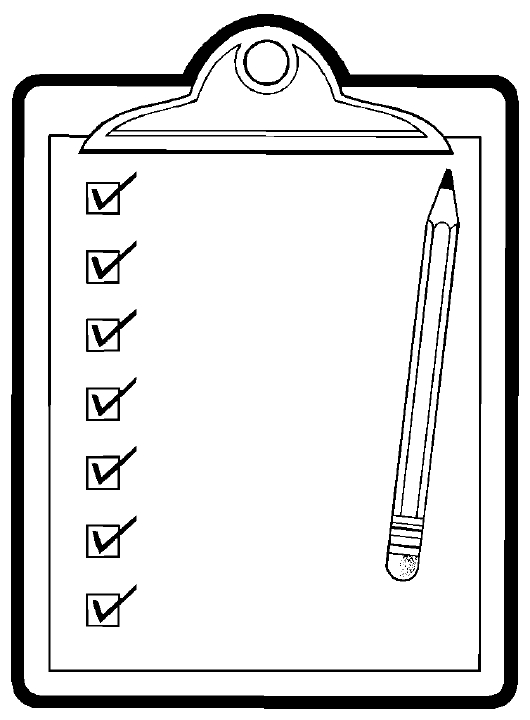
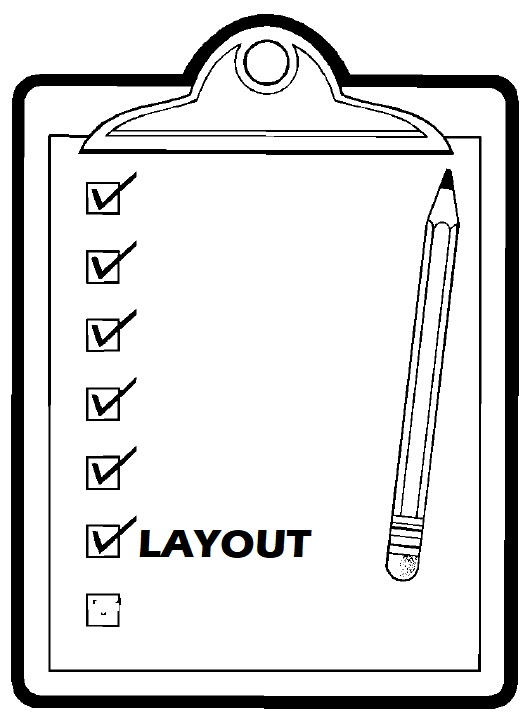
updated

Changed region(s): [[0.2415, 0.7333, 0.6038, 0.825], [0.1811, 0.825, 0.2415, 0.8861]]

diff --git a/css/style.css b/css/style.css
@@ -25,29 +25,34 @@ header{
 	width:80%;
 	height:auto;
 	display:flex;
-	justify-content:space-around;
-	align-items:center;
+	justify-content:flex-start;
+	/* align-items:center; */
+	flex-wrap:wrap;
+	gap:20px;
 }
 .card{
-	width:100%;
+	width:20%;
 	height:300px;
-	flex-flow:row wrap;
+	/* flex-wrap:wrap; */
 	
 }
 .image2 img{
 	width:200px;
-	height:300px;
+	height:250px;
 }
 .image3 img{
 	width:200px;
-	height:300px;
+	height:250px;
 }
 .image4 img{
 	width:200px;
-	height:300px;
+	height:250px;
 }
 .image5 img{
 	width:200px;
-	height:300px;
+	height:250px;
 }
-
+.image6 img{
+	width:200px;
+	height:250px;
+}

diff --git a/index.html b/index.html
@@ -48,6 +48,15 @@
 	     <img src="image/photo5.png" alt="no image"></a>
 	    </div>
 	 </div>
+	 
+	 <div class="card6 card">
+	   <div class="image6">
+	     <a href="./task/website-layout/index.html" target="blank">
+	     <img src="image/photo6.png" alt="no image"></a>
+	    </div>
+	 </div>
+	 
+	
 	 </div>
    </section>
   </body>   
